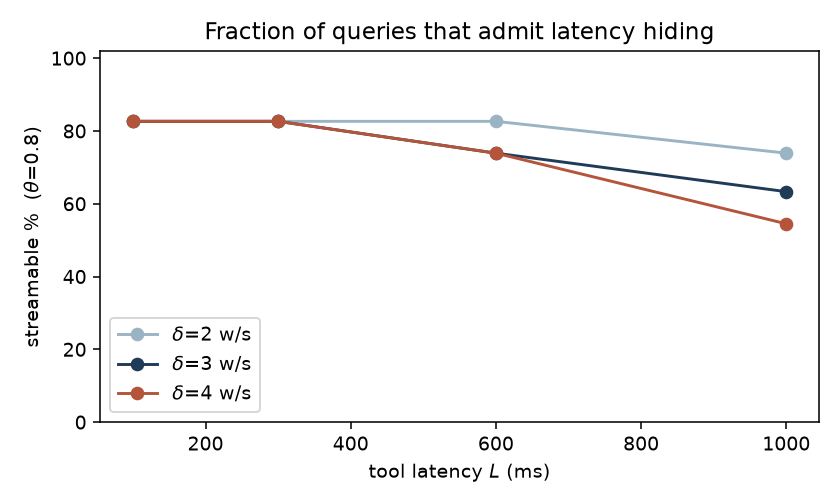
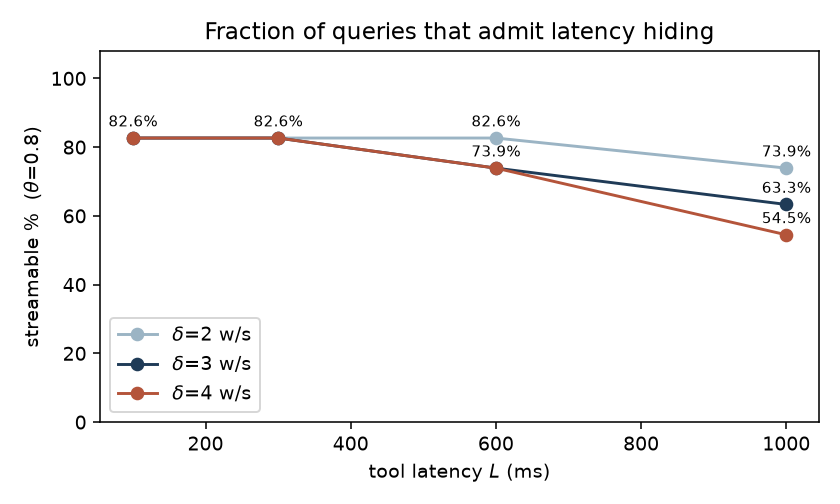
Enhance RQ2 surface figure with annotations and adjust y-axis limits; update results.tex for clarity

diff --git a/paper/results.tex b/paper/results.tex
@@ -100,7 +100,7 @@ reasoning complexity.}
 \subsection{RQ2: What fraction of queries admit latency hiding?}
 Using $t^\star=t_{\mathrm{suf}}$ where available and falling back to
 $t_{\mathrm{sc}}$ otherwise, we compute the streamable fraction over the full
-$(L,\delta,\theta)$ grid (Table~\ref{tab:rq2}, Fig.~\ref{fig:rq2}). At the central
+$(L,\delta,\theta)$ grid (Fig.~\ref{fig:rq2}). At the central
 operating point ($L{=}600$\,ms, $\delta{=}3$\,w/s, $\theta{=}0.8$), \streamPct{} of
 queries admit hiding at least 80\% of tool latency.
 
@@ -146,30 +146,12 @@ time, so a \emph{slower} cadence \emph{raises} the streamable fraction: from
 $54.5\%$ at $\delta{=}4$\,w/s up to $73.9\%$ at $\delta{=}2$\,w/s. Faster typists
 and faster talkers leave less room to hide a slow tool.
 
-\begin{table}[t]
-\centering
-\caption{RQ2: streamable fraction (\%) at $\theta{=}0.8$ over the $(L,\delta)$ grid.
-Rows are tool latency $L$ (ms); columns are input cadence $\delta$ (words/sec).
-For large $L$, slower cadence (lower $\delta$) hides more (H2).}
-\label{tab:rq2}
-\begin{tabular}{lccc}
-\toprule
- & $\delta{=}2$ & $\delta{=}3$ & $\delta{=}4$ \\
-\midrule
-$L{=}100$  & 82.6 & 82.6 & 82.6 \\
-$L{=}300$  & 82.6 & 82.6 & 82.6 \\
-$L{=}600$  & 82.6 & 73.9 & 73.9 \\
-$L{=}1000$ & 73.9 & 63.3 & 54.5 \\
-\bottomrule
-\end{tabular}
-\end{table}
-
 \begin{figure}[t]
 \centering
 \includegraphics[width=0.78\linewidth]{figures/rq2_surface.png}
 \caption{Streamable fraction vs.\ tool latency $L$ at $\theta{=}0.8$, one line per
-cadence $\delta$. The curves separate only once $L$ is large enough for residual
-input time to bind; there, slower cadence dominates (H2).}
+cadence $\delta$, with exact values annotated. The curves separate only once $L$ is
+large enough for residual input time to bind; there, slower cadence dominates (H2).}
 \label{fig:rq2}
 \end{figure}
 

diff --git a/make_figures.py b/make_figures.py
@@ -98,15 +98,28 @@ def fig_rq2_surface(summary, theta=0.8):
             by_delta[g["delta_wps"]].append((g["L_ms"], g["frac"]))
     fig, ax = plt.subplots(figsize=(6, 3.6))
     colors = ["#9bb4c4", NAVY, RUST]
+    # collect all series first so we can de-duplicate labels across lines
+    series = []
     for (d, pts), c in zip(sorted(by_delta.items()), colors):
         pts.sort()
+        series.append((d, pts, c))
+    annotated = set()  # (L, pct_str) already labelled
+    for d, pts, c in series:
         xs = [p[0] for p in pts]
         ys = [100 * p[1] for p in pts]
         ax.plot(xs, ys, marker="o", color=c, label=f"$\\delta$={d:g} w/s")
+        for x, y in zip(xs, ys):
+            key = (x, f"{y:.1f}")
+            if key in annotated:
+                continue
+            annotated.add(key)
+            ax.annotate(f"{y:.1f}%", xy=(x, y), xytext=(0, 6),
+                        textcoords="offset points", ha="center",
+                        fontsize=7.5, color="black")
     ax.set_xlabel("tool latency $L$ (ms)")
     ax.set_ylabel(f"streamable %  ($\\theta$={theta})")
     ax.set_title("Fraction of queries that admit latency hiding")
-    ax.set_ylim(0, 102)
+    ax.set_ylim(0, 108)
     ax.legend()
     fig.tight_layout()
     fig.savefig(f"{FIGS}/rq2_surface.png", dpi=140)